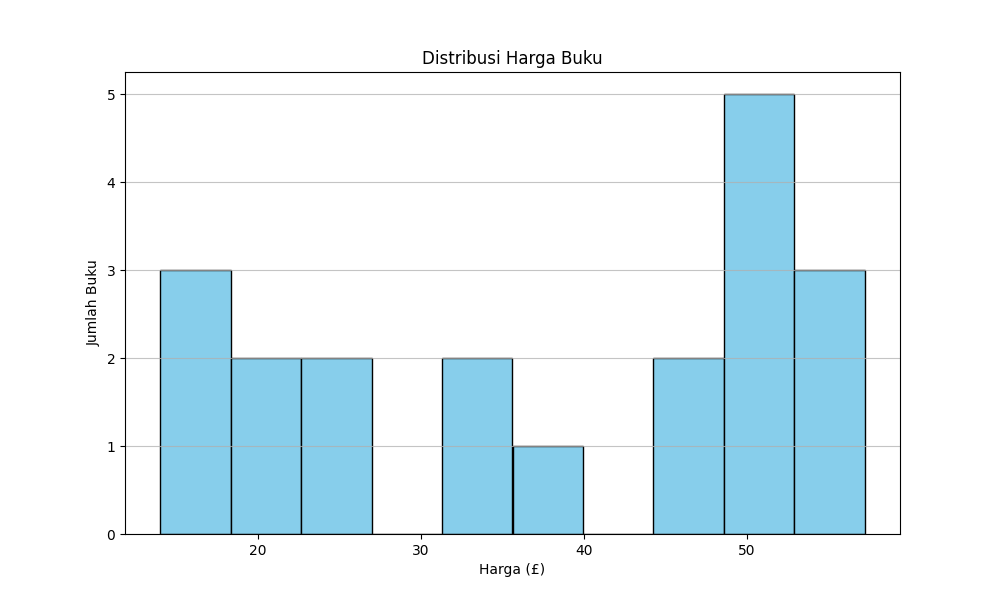
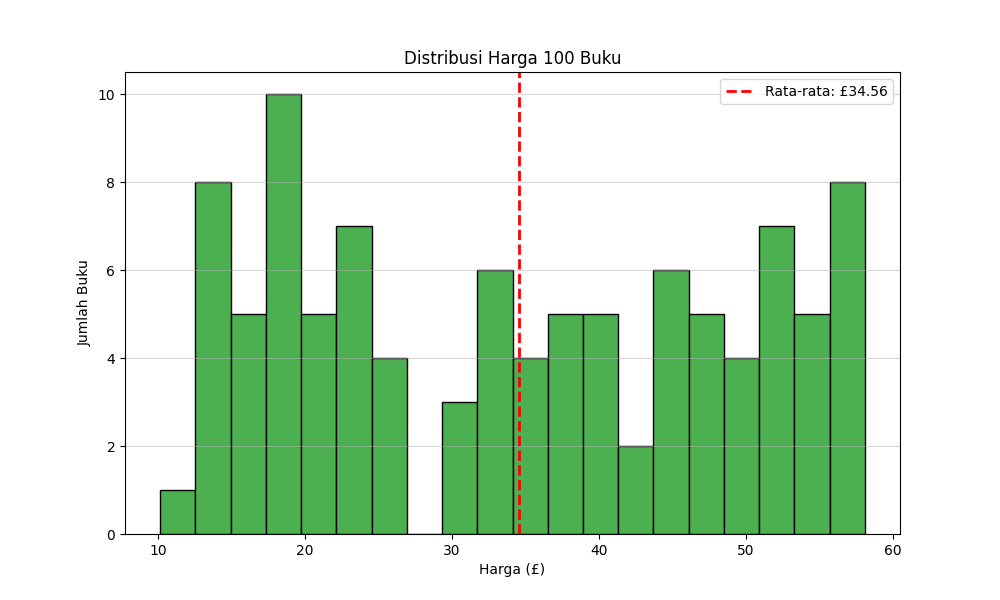
Update: Menambahkan fitur multi-page scraping (100 buku) dan README

diff --git a/scraper.py b/scraper.py
@@ -1,40 +1,68 @@
 import requests
-from bs4 import BeautifulSoup  # Kita panggil alat bedahnya
+from bs4 import BeautifulSoup
 import pandas as pd
+import time  # Library wajib untuk mengatur jeda waktu
 
-url = "http://books.toscrape.com/"
-response = requests.get(url)
+# 1. Persiapan
+data_semua_buku = []
+base_url = "http://books.toscrape.com/catalogue/page-{}.html"
 
-if response.status_code == 200:
-    # 1. Ubah data mentah (HTML) menjadi objek 'soup' agar bisa dibaca Python
-    soup = BeautifulSoup(response.content, "html.parser")
-    # 2. Cari semua wadah buku.
-    # Di website ini, setiap buku dibungkus dalam tag <article> dengan class "product_pod"
-    books = soup.find_all("article", class_="product_pod")
-    data_buku = []
+# Kita akan mengambil data dari halaman 1 sampai 5
+# range(1, 6) artinya: mulai dari 1, berhenti SEBELUM 6 (jadi 1,2,3,4,5)
+halaman_awal = 1
+halaman_akhir = 5
 
+print(f"Memulai scraping dari halaman {halaman_awal} sampai {halaman_akhir}...")
+print("-" * 40)
+
+# 2. Proses Looping (Perulangan) per Halaman
+for halaman in range(halaman_awal, halaman_akhir + 1):
+    # Membuat URL dinamis: page-1.html, page-2.html, dst
+    url_saat_ini = base_url.format(halaman)
     
-    # 3. Looping (perulangan) untuk membongkar setiap buku satu per satu
-    for book in books:
-        # Mengambil Judul
-        # Judul ada di dalam tag <h3>, lalu di dalam tag <a>, atribut 'title'
-        title_element = book.find("h3").find("a")
-        title = title_element["title"] # Kita ambil isi atribut 'title' biar lengkap
+    print(f"Sedang mengambil data dari: Halaman {halaman}")
+    
+    try:
+        response = requests.get(url_saat_ini)
         
-        # Mengambil Harga
-        # Harga ada di tag <p> dengan class "price_color"
-        price_element = book.find("p", class_="price_color")
-        price = price_element.text # Kita ambil teksnya saja (misal: £51.77)
-        
-        data_buku.append({
-            "judul buku": title,
-            "Harga": price
-        })
+        if response.status_code == 200:
+            soup = BeautifulSoup(response.content, "html.parser")
+            books = soup.find_all("article", class_="product_pod")
+            
+            # Loop untuk setiap buku di halaman tersebut
+            for book in books:
+                # Ambil Judul
+                title = book.find("h3").find("a")["title"]
+                
+                # Ambil Harga
+                price = book.find("p", class_="price_color").text
+                
+                # Masukkan ke keranjang besar
+                data_semua_buku.append({
+                    "Judul Buku": title,
+                    "Harga": price
+                })
+        else:
+            print(f"--> Gagal membuka halaman {halaman}")
+            
+    except Exception as e:
+        print(f"--> Terjadi error di halaman {halaman}: {e}")
+    
+    # PENTING: Tidur dulu 1 detik sebelum lanjut ke halaman berikutnya
+    # Ini etika scraping agar tidak membebani server
+    time.sleep(1)
 
-        df = pd.DataFrame(data_buku)
-        df.to_csv("hasil_buku.csv", index=False)
+# 3. Penyimpanan Data
+print("-" * 40)
+print("Proses Selesai!")
 
-        print("berhasil, data telah disimpan ke 'hasil_buku.csv")
-        print("Total data: {len(data_buku)} buku")
+if len(data_semua_buku) > 0:
+    # Simpan ke file CSV baru biar file lama tidak tertimpa (opsional)
+    filename = "hasil_buku_banyak.csv"
+    df = pd.DataFrame(data_semua_buku)
+    df.to_csv(filename, index=False)
+    
+    print(f"Berhasil mendapatkan total {len(data_semua_buku)} buku.")
+    print(f"Data disimpan ke file: {filename}")
 else:
-    print("Gagal terhubung.")
+    print("Tidak ada data yang didapatkan.")

diff --git a/analysis.py b/analysis.py
@@ -1,62 +1,51 @@
 import pandas as pd
 import matplotlib.pyplot as plt
 
-# 1. LOAD DATA
+# 1. LOAD DATA BARU
+filename = "hasil_buku_banyak.csv"  # <-- Kita ubah ke file yang datanya 100 biji
 try:
-    df = pd.read_csv("hasil_buku.csv")
+    df = pd.read_csv(filename)
     
-    # --- BAGIAN PERBAIKAN (DEBUGGING) ---
-    print("Nama kolom asli:", df.columns.tolist())
-    
-    # Hapus spasi di awal/akhir nama kolom (misal: 'Harga ' jadi 'Harga')
+    # Bersihkan nama kolom (hapus spasi ekstra)
     df.columns = df.columns.str.strip()
     
-    print("Nama kolom setelah dibersihkan:", df.columns.tolist())
-    # ------------------------------------
-
-    print("\n--- Data Awal ---")
-    print(df.head())
-
-    # 2. DATA CLEANING (Pembersihan Isi Data)
-    # Hapus '£' dan ubah jadi angka
-    # Kita gunakan try-except agar kalau ada error di baris tertentu, kita tahu
-    
-    # Cek apakah kolom 'Harga' benar-benar ada sekarang
+    # 2. DATA CLEANING
     if 'Harga' in df.columns:
+        # Hapus '£' dan ubah jadi angka float
         df['Harga'] = df['Harga'].str.replace('£', '')
         df['Harga'] = df['Harga'].astype(float)
         
         # 3. ANALISIS DATA
         rata_rata = df['Harga'].mean()
-        termahal = df['Harga'].max()
-        termurah = df['Harga'].min()
-
-        print("\n--- Hasil Analisis ---")
-        print(f"Rata-rata Harga Buku: £{rata_rata:.2f}")
-        print(f"Buku Termahal: £{termahal}")
-        print(f"Buku Termurah: £{termurah}")
-
-        # Cari judul buku yang paling mahal
-        buku_sultan = df[df['Harga'] == termahal]
+        print(f"\n--- HASIL ANALISIS ({len(df)} Buku) ---")
+        print(f"Rata-rata Harga: £{rata_rata:.2f}")
         
-        # Kita pakai .iloc[0] untuk mengambil baris pertama saja biar rapi
-        judul_sultan = buku_sultan.iloc[0]['Judul Buku'] if 'Judul Buku' in df.columns else buku_sultan.iloc[0]['judul buku']
-        
-        print(f"Judul Buku Termahal: {judul_sultan}")
+        # Fitur Baru: Top 5 Buku Termahal
+        print("\nTop 5 Buku Termahal:")
+        top_5 = df.nlargest(5, 'Harga')
+        for index, row in top_5.iterrows():
+            print(f"- {row['Judul Buku']} (£{row['Harga']})")
 
         # 4. VISUALISASI DATA
         plt.figure(figsize=(10, 6))
-        plt.hist(df['Harga'], bins=10, color='skyblue', edgecolor='black')
-        plt.title('Distribusi Harga Buku')
+        
+        # Histogram
+        plt.hist(df['Harga'], bins=20, color='#4CAF50', edgecolor='black')
+        
+        # Menambahkan garis rata-rata (garis merah putus-putus)
+        plt.axvline(rata_rata, color='red', linestyle='dashed', linewidth=2, label=f'Rata-rata: £{rata_rata:.2f}')
+        
+        plt.title(f'Distribusi Harga {len(df)} Buku')
         plt.xlabel('Harga (£)')
         plt.ylabel('Jumlah Buku')
-        plt.grid(axis='y', alpha=0.75)
+        plt.legend()
+        plt.grid(axis='y', alpha=0.5)
         
         plt.savefig("grafik_harga.png")
         print("\nGrafik berhasil disimpan sebagai 'grafik_harga.png'")
         
     else:
-        print("\nERROR: Kolom 'Harga' masih tidak ditemukan. Cek nama kolom di atas.")
+        print("Kolom 'Harga' tidak ditemukan.")
 
-except Exception as e:
-    print(f"\nTerjadi Error: {e}")
+except FileNotFoundError:
+    print(f"File {filename} tidak ditemukan. Jalankan scraper.py dulu!")
